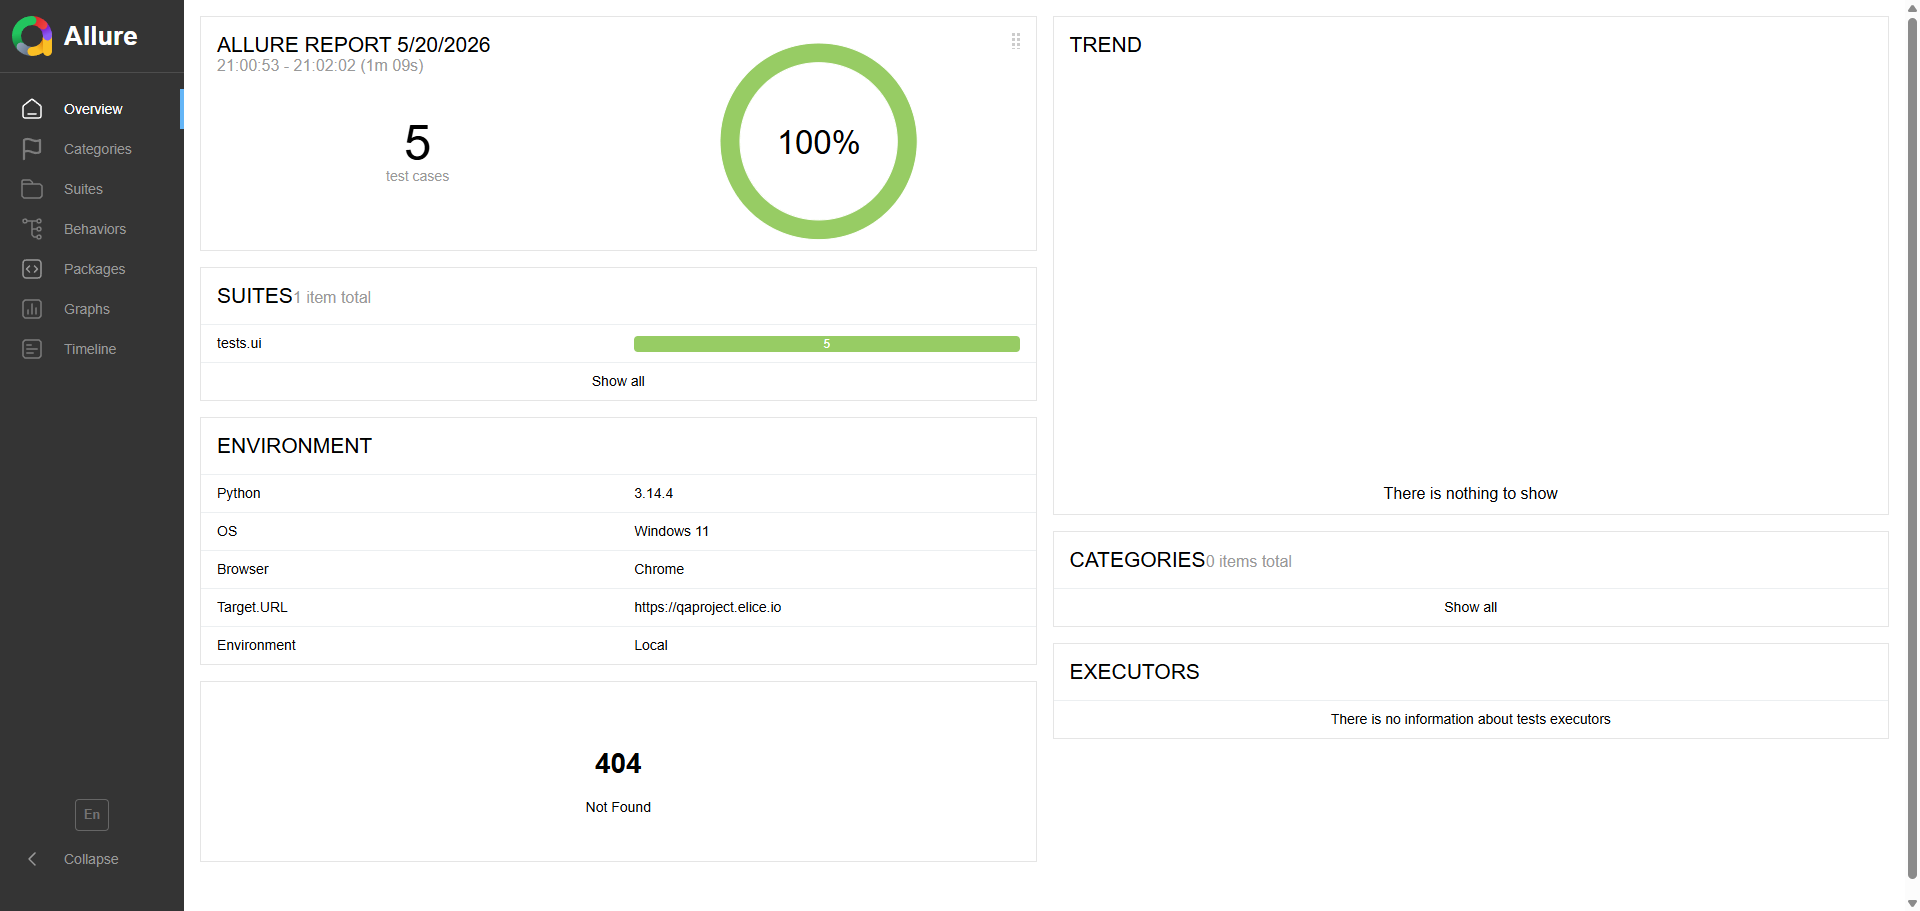
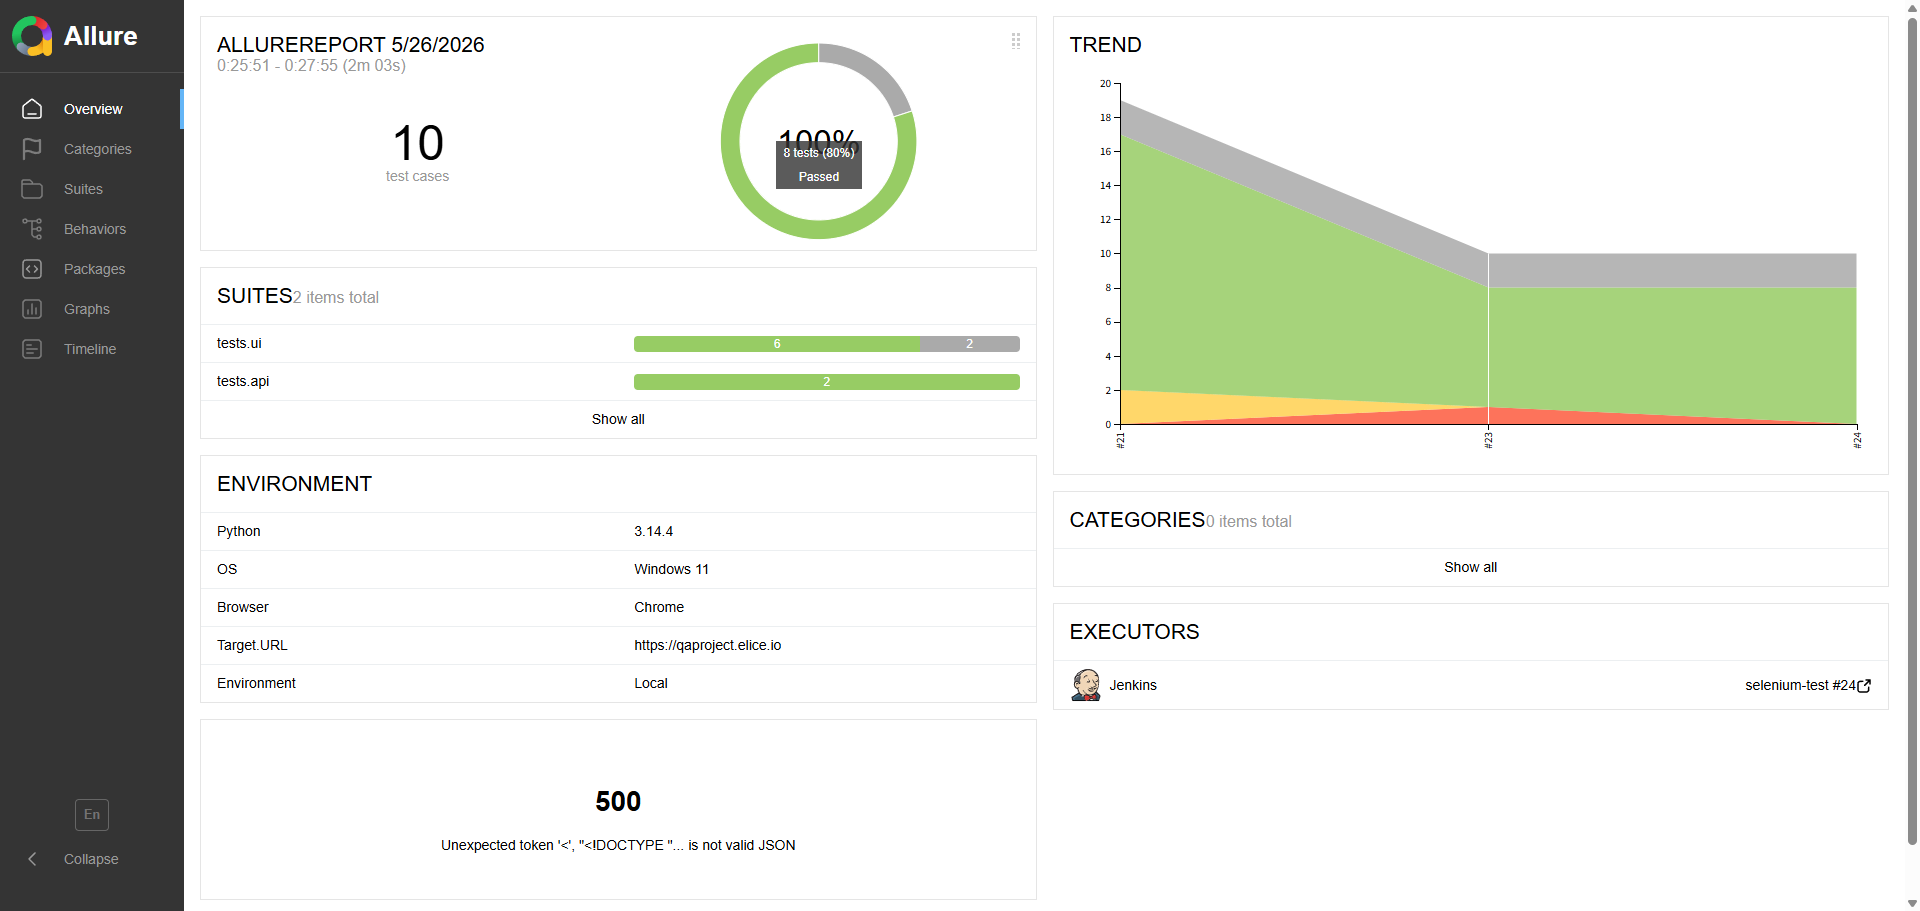
docs: Jenkins 빌드 성공 스크린샷 추가 및 README CI/API 항목 보완
- docs/images/jenkins-success.png 추가 (빌드 #24 SUCCESS)
- docs/images/allure-report.png 최신본으로 교체 (10 test cases, 8 passed)
- README 기술 스택에 API 자동화·CI/CD 항목 추가
- 테스트 구성 테이블에 TS-006 API 자동화 행 추가
- 로컬 실행 방법에 CI(Jenkins/GitHub Actions) 설명 추가

diff --git a/README.md b/README.md
@@ -18,6 +18,10 @@
 |---|---|
 | ![pytest start](docs/images/pytest_start.gif) | ![pytest end](docs/images/pytest_end.gif) |
 
+### Jenkins CI — 빌드 성공
+
+![Jenkins Build Success](docs/images/jenkins-success.png)
+
 ### Allure 리포트
 
 ![Allure Report](docs/images/allure-report.png)
@@ -34,7 +38,9 @@
 |---|---|
 | 언어 | Python 3.14 |
 | UI 자동화 | Selenium 4, pytest |
+| API 자동화 | requests, pytest |
 | 리포팅 | Allure Report (allure-pytest) |
+| CI/CD | Jenkins (Declarative Pipeline), GitHub Actions |
 | 설계 패턴 | Page Object Model (POM) |
 | 인증 우회 | Chrome DevTools Protocol (CDP) 쿠키 주입 |
 | 환경 관리 | python-dotenv |
@@ -85,11 +91,12 @@ helpy-chat-qa-automation/
 
 | TS ID | 테스트 스위트 | TC 수 | 방식 |
 |---|---|---|---|
-| TS-001 | 메시지 전송 | TC_001 | 자동화 |
-| TS-002 | 새 대화 | TC_002~003 | 자동화 |
-| TS-003 | 메시지 입력 기능 | TC_004~006 | 자동화 |
-| TS-004 | + 버튼 메뉴 | TC_007~011 | 자동화 (TC_009 xfail — 앱 버그) |
-| TS-005 | LNB 대화 목록 관리 | TC_012~014 | 자동화 |
+| TS-001 | 메시지 전송 | TC_001 | UI 자동화 |
+| TS-002 | 새 대화 | TC_002~003 | UI 자동화 |
+| TS-003 | 메시지 입력 기능 | TC_004~006 | UI 자동화 |
+| TS-004 | + 버튼 메뉴 | TC_007~011 | UI 자동화 (TC_009 xfail — 앱 버그) |
+| TS-005 | LNB 대화 목록 관리 | TC_012~014 | UI 자동화 |
+| TS-006 | Community API | - | API 자동화 (인증 · 에이전트 조회) |
 
 > 전체 TC 목록: [docs/test_cases.csv](docs/test_cases.csv)
 
@@ -145,10 +152,13 @@ DOWNLOAD_DIR=/path/to/download/directory
 ### 3. 테스트 실행
 
 ```bash
-# UI 테스트 전체 실행
-pytest tests/ui/ -m ui -v
+# UI 테스트 실행 (slow 제외)
+pytest -m "ui and not slow" --tb=short -v
 
-# 특정 테스트 파일 실행
+# API 테스트 실행
+pytest -m api --tb=short -v
+
+# 특정 파일 실행
 pytest tests/ui/test_message_send.py -v
 ```
 
@@ -157,6 +167,13 @@ pytest tests/ui/test_message_send.py -v
 ```bash
 allure serve allure-results
 ```
+
+### 5. CI 실행 (Jenkins)
+
+`Jenkinsfile` 기반 Declarative Pipeline으로 UI · API 테스트를 순차 실행하고 Allure Report를 자동 생성합니다.  
+`AUTH_TOKEN`은 Jenkins Credentials (Secret text)에 등록해 주입하며, 코드에는 노출되지 않습니다.
+
+GitHub Actions(`.github/workflows/qa.yml`)는 `main` · `develop` 브랜치 push/PR 시 API 테스트를 ubuntu-latest에서 자동 실행합니다.
 
 ---
 
